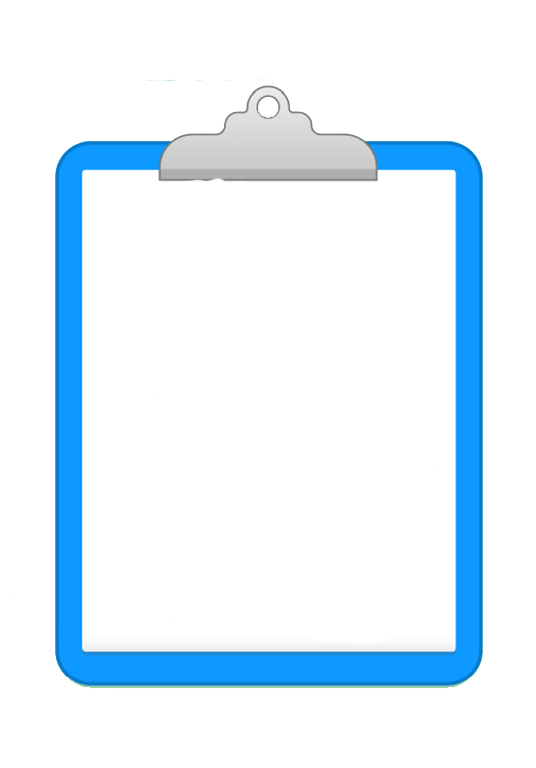
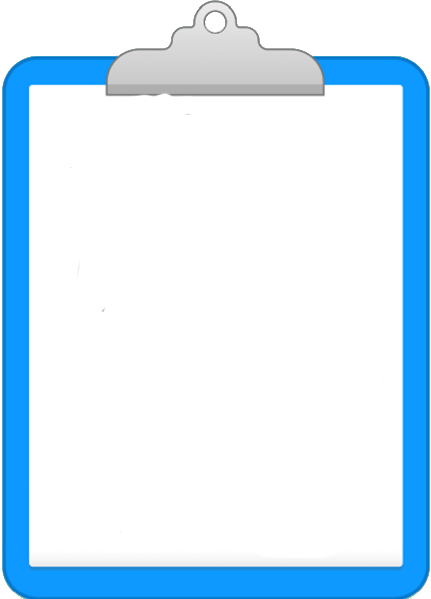
clip

diff --git a/saved.html b/saved.html
@@ -23,9 +23,9 @@
           </ul>
         </nav>
     </header>
-    <h1>Favorite Recipes!</h1>
+    <h1 class="is-size-1-desktop has-text-centered has-text-weight-bold">Favorite Recipes!</h1>
     <div class="container">
-    <img src="assets/image/Test clip.png" alt="The background of the page" class="has-text-centered" id="clipboardsize">
+    <img src="assets/image/Clipboard.png" alt="The background of the page" class="has-text-centered " id="clipboardsize">
     <div id="savedContainer"></div>
     </div>
     <script src="https://code.jquery.com/jquery-3.7.0.js" integrity="sha256-JlqSTELeR4TLqP0OG9dxM7yDPqX1ox/HfgiSLBj8+kM=" crossorigin="anonymous"></script>  

diff --git a/assets/css/style.css b/assets/css/style.css
@@ -322,11 +322,12 @@ a:hover {
   margin-left: 15px;
 }
 
-/*Thiss is for the Saved Recipes Page */
+/*This is for the Saved Recipes Page */
  #clipboardsize {
   height: 980px;
   display:block;
   align-items: center;
   margin-left: auto;
   margin-right: auto;
+
  }
